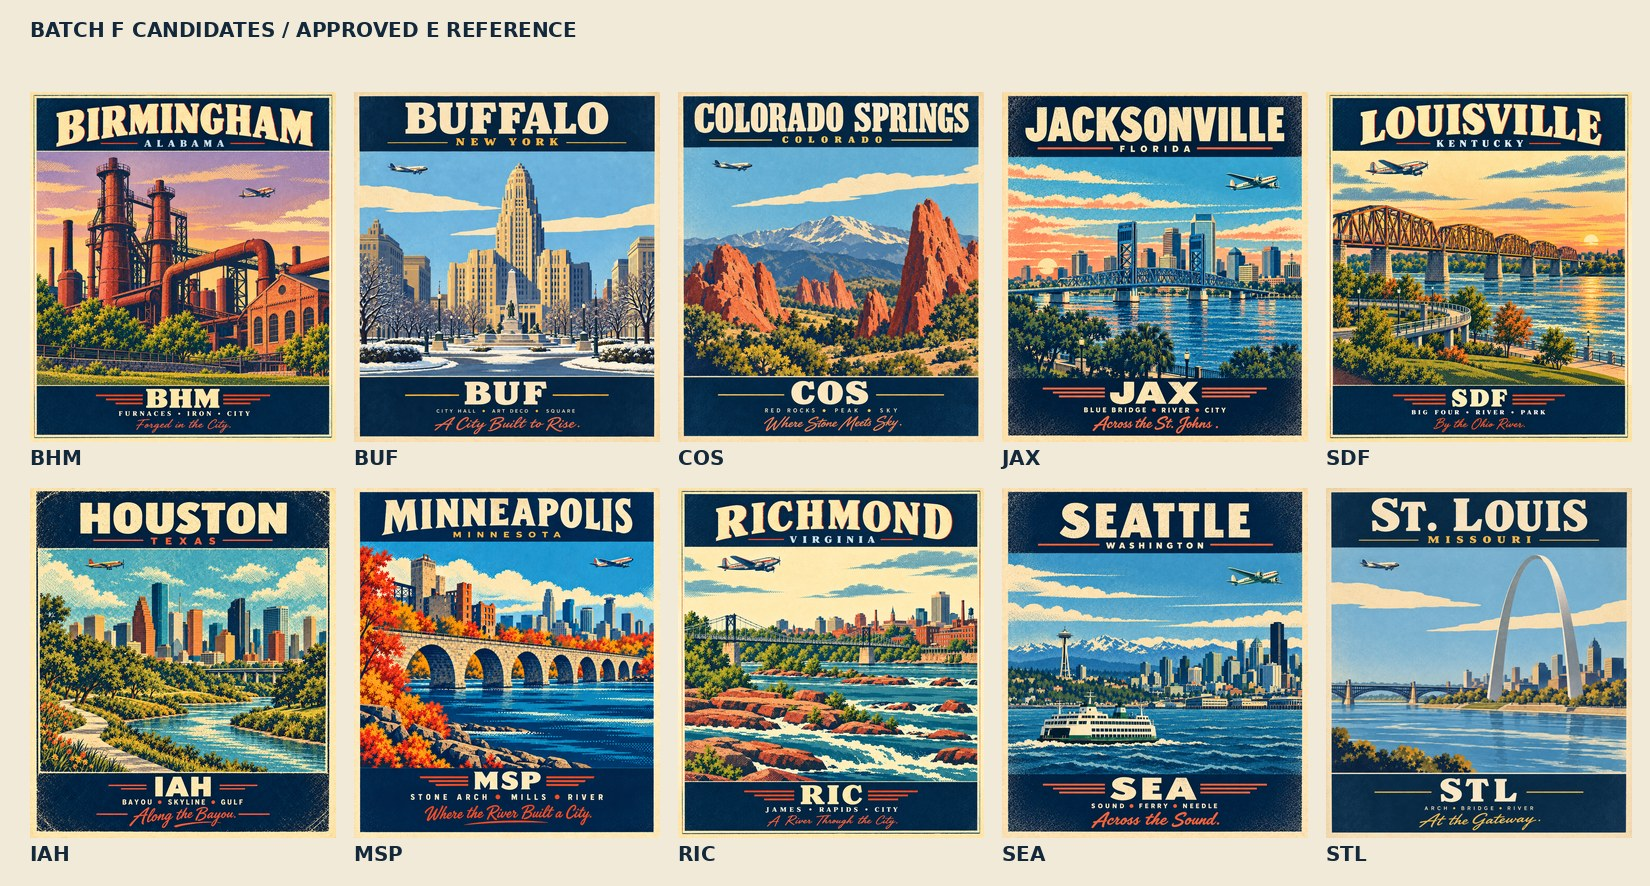
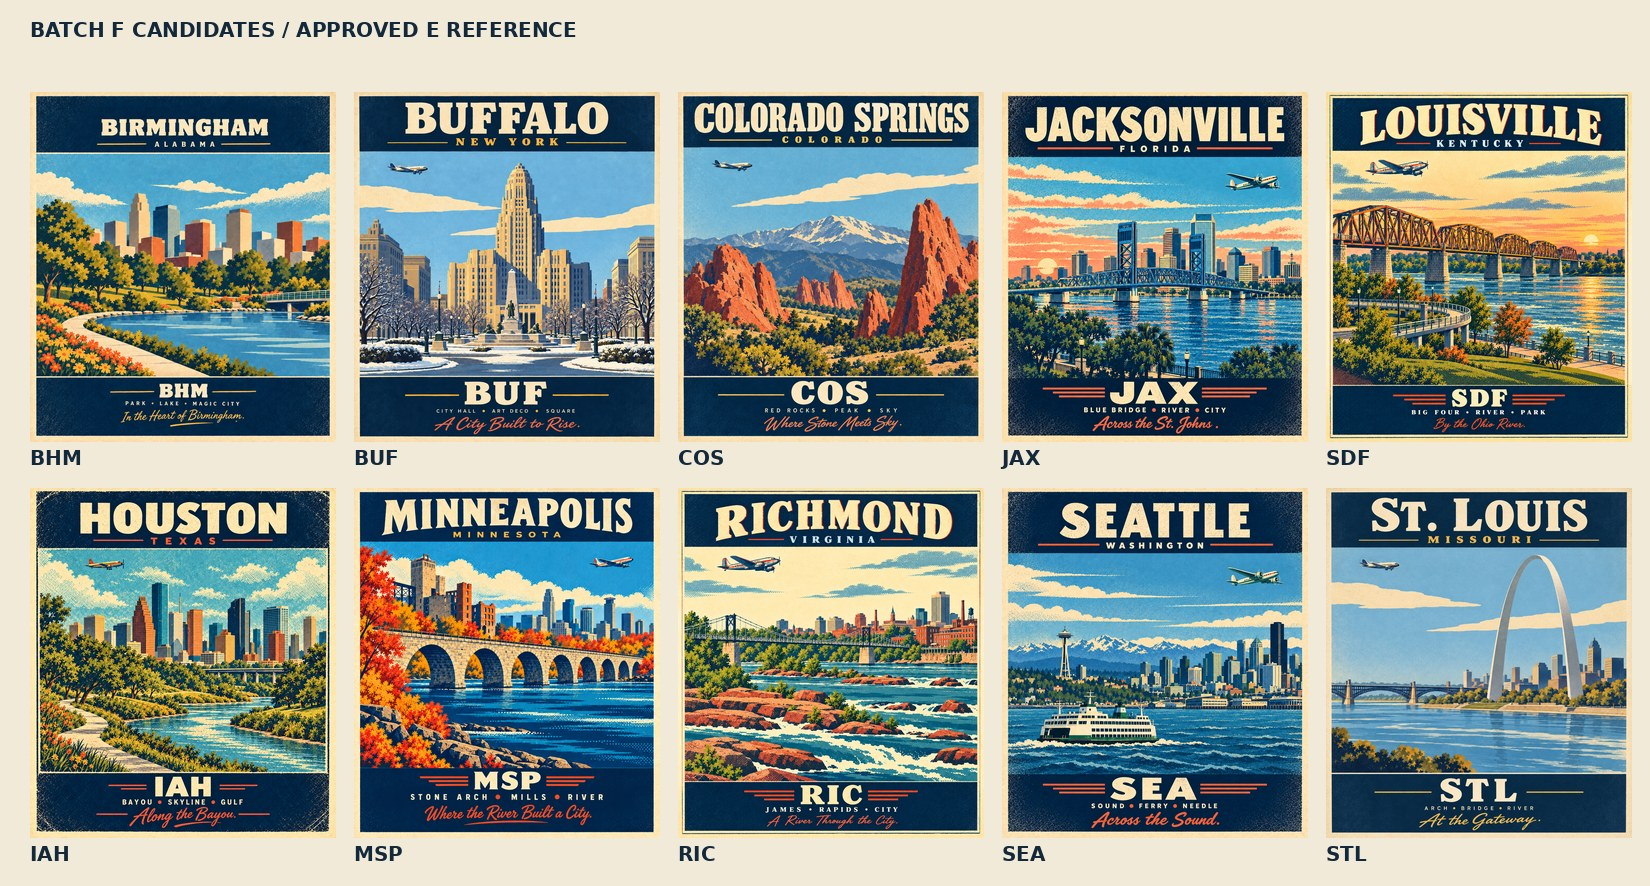
Replace Birmingham industrial candidate with Railroad Park

Changed region(s): [[0.0, 0.0914, 0.2164, 0.5181]]

diff --git a/Docs/UI/envoy-poster-roadmap.md b/Docs/UI/envoy-poster-roadmap.md
@@ -72,13 +72,13 @@ The comparison `Docs/UI/envoy-gap-2026-09-27-e-review.jpg` places these composit
 
 | Code | City | Visual anchor | Review note |
 | --- | --- | --- | --- |
-| BHM | Birmingham, Alabama | Sloss Furnaces historic blast-furnace complex | The first Vulcan-statue direction was discarded before candidate installation because Vulcan Park asserts rights in the statue likeness and word mark. Check Sloss structures and any commercial-use concerns separately. |
+| BHM | Birmingham, Alabama | Railroad Park lake, paths and downtown skyline | A Vulcan-statue direction was discarded over the park's asserted likeness rights. Joey rejected the subsequent industrial Sloss concept as too severe and flagged an implausibly large aircraft in the first park pass. Current candidate is a flatter, warmer park view without an airplane. Check skyline geography before commercial use. |
 | BUF | Buffalo, New York | City Hall and Niagara Square | Check Art Deco tower, monument and winter streetscape. |
 | COS | Colorado Springs, Colorado | Garden of the Gods and Pikes Peak | Check sandstone silhouettes and mountain viewpoint. |
 | JAX | Jacksonville, Florida | Blue Main Street vertical-lift bridge and St. Johns River | Check lift-tower geometry and Northbank skyline. |
 | SDF | Louisville, Kentucky | Big Four Bridge, Ohio River and Waterfront Park | Check truss spans and pedestrian approach relationship. |
 
-The comparison `Docs/UI/envoy-gap-2026-09-27-f-review.jpg` places these five above the approved Batch E reference at matching size. They are **candidates only** and are deliberately absent from `config/posters.js` until Joey approves them. They use the same 1173 × 1341 review canvas, not the later high-resolution print master. Landmark and third-party rights review remains necessary before commercial sale. Sources and visual profiles are recorded in `data/poster-batch-manifest.json`.
+The comparison `Docs/UI/envoy-gap-2026-09-27-f-review.jpg` places these five above the approved Batch E reference at matching size. Birmingham was replaced after Joey's feedback; the active candidate contains no industrial site or aircraft. These are **candidates only** and are deliberately absent from `config/posters.js` until Joey approves them. They use the same 1173 × 1341 review canvas, not the later high-resolution print master. Landmark and third-party rights review remains necessary before commercial sale. Sources and visual profiles are recorded in `data/poster-batch-manifest.json`.
 
 ## Next passes
 
